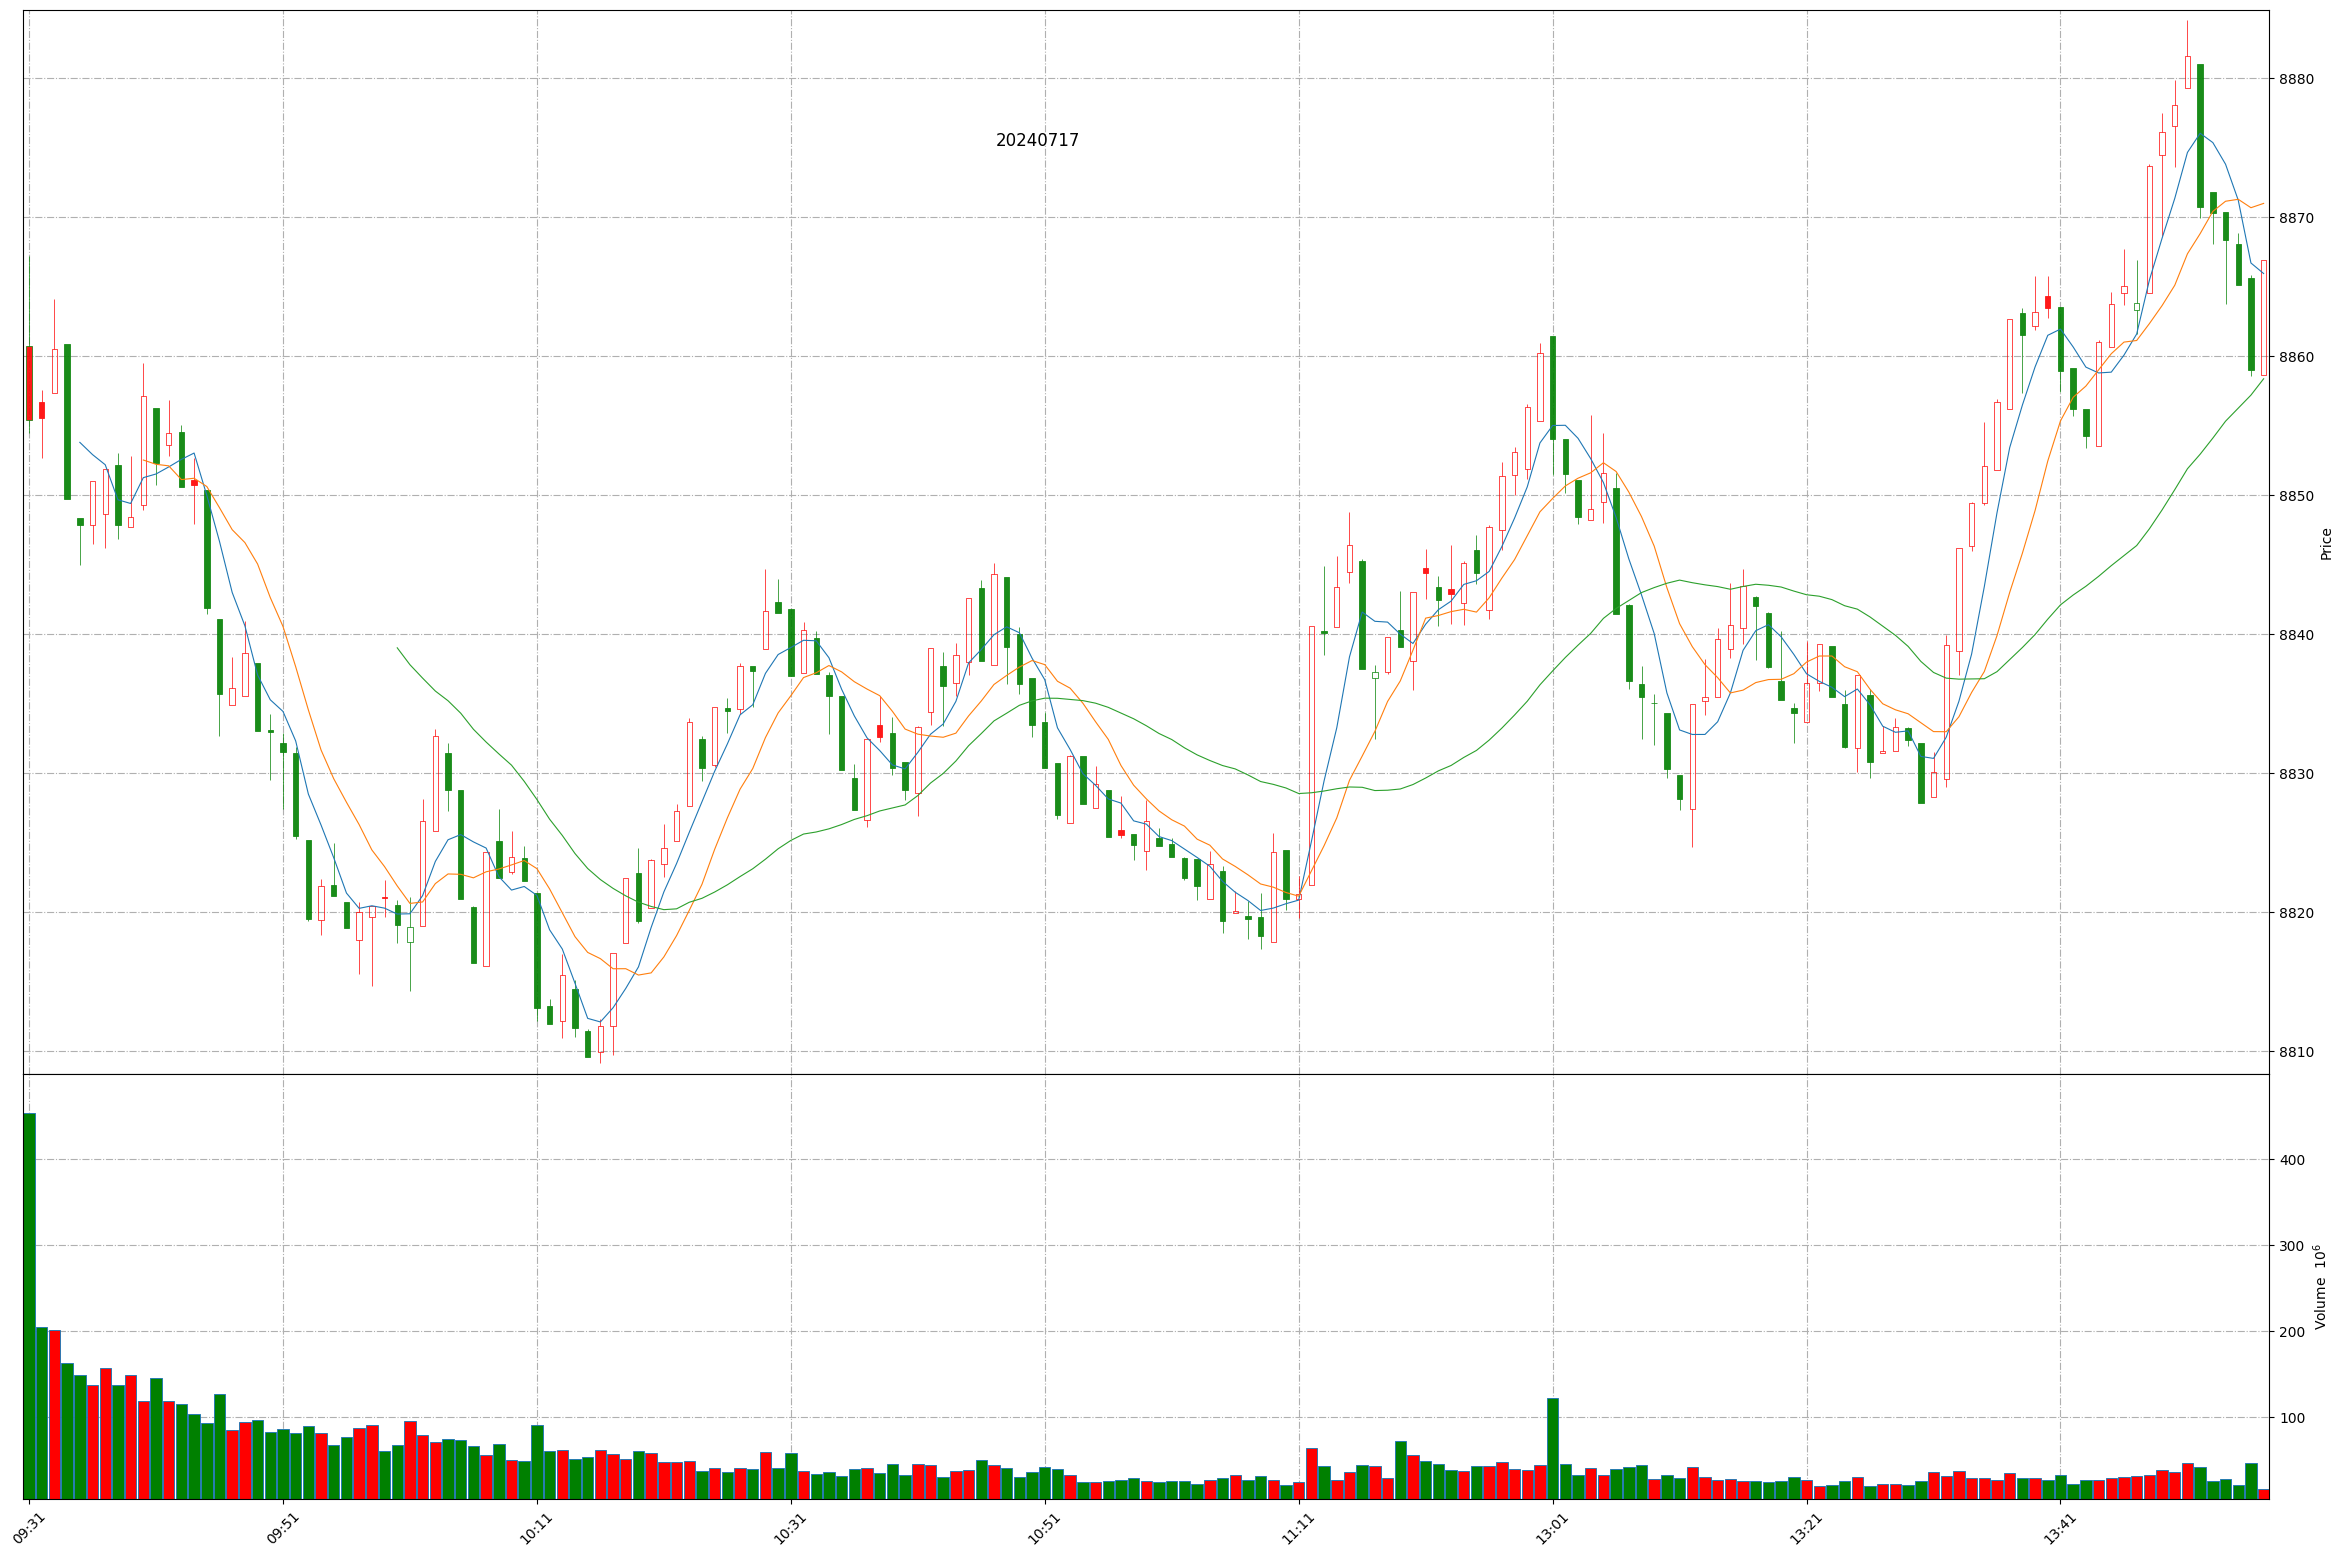
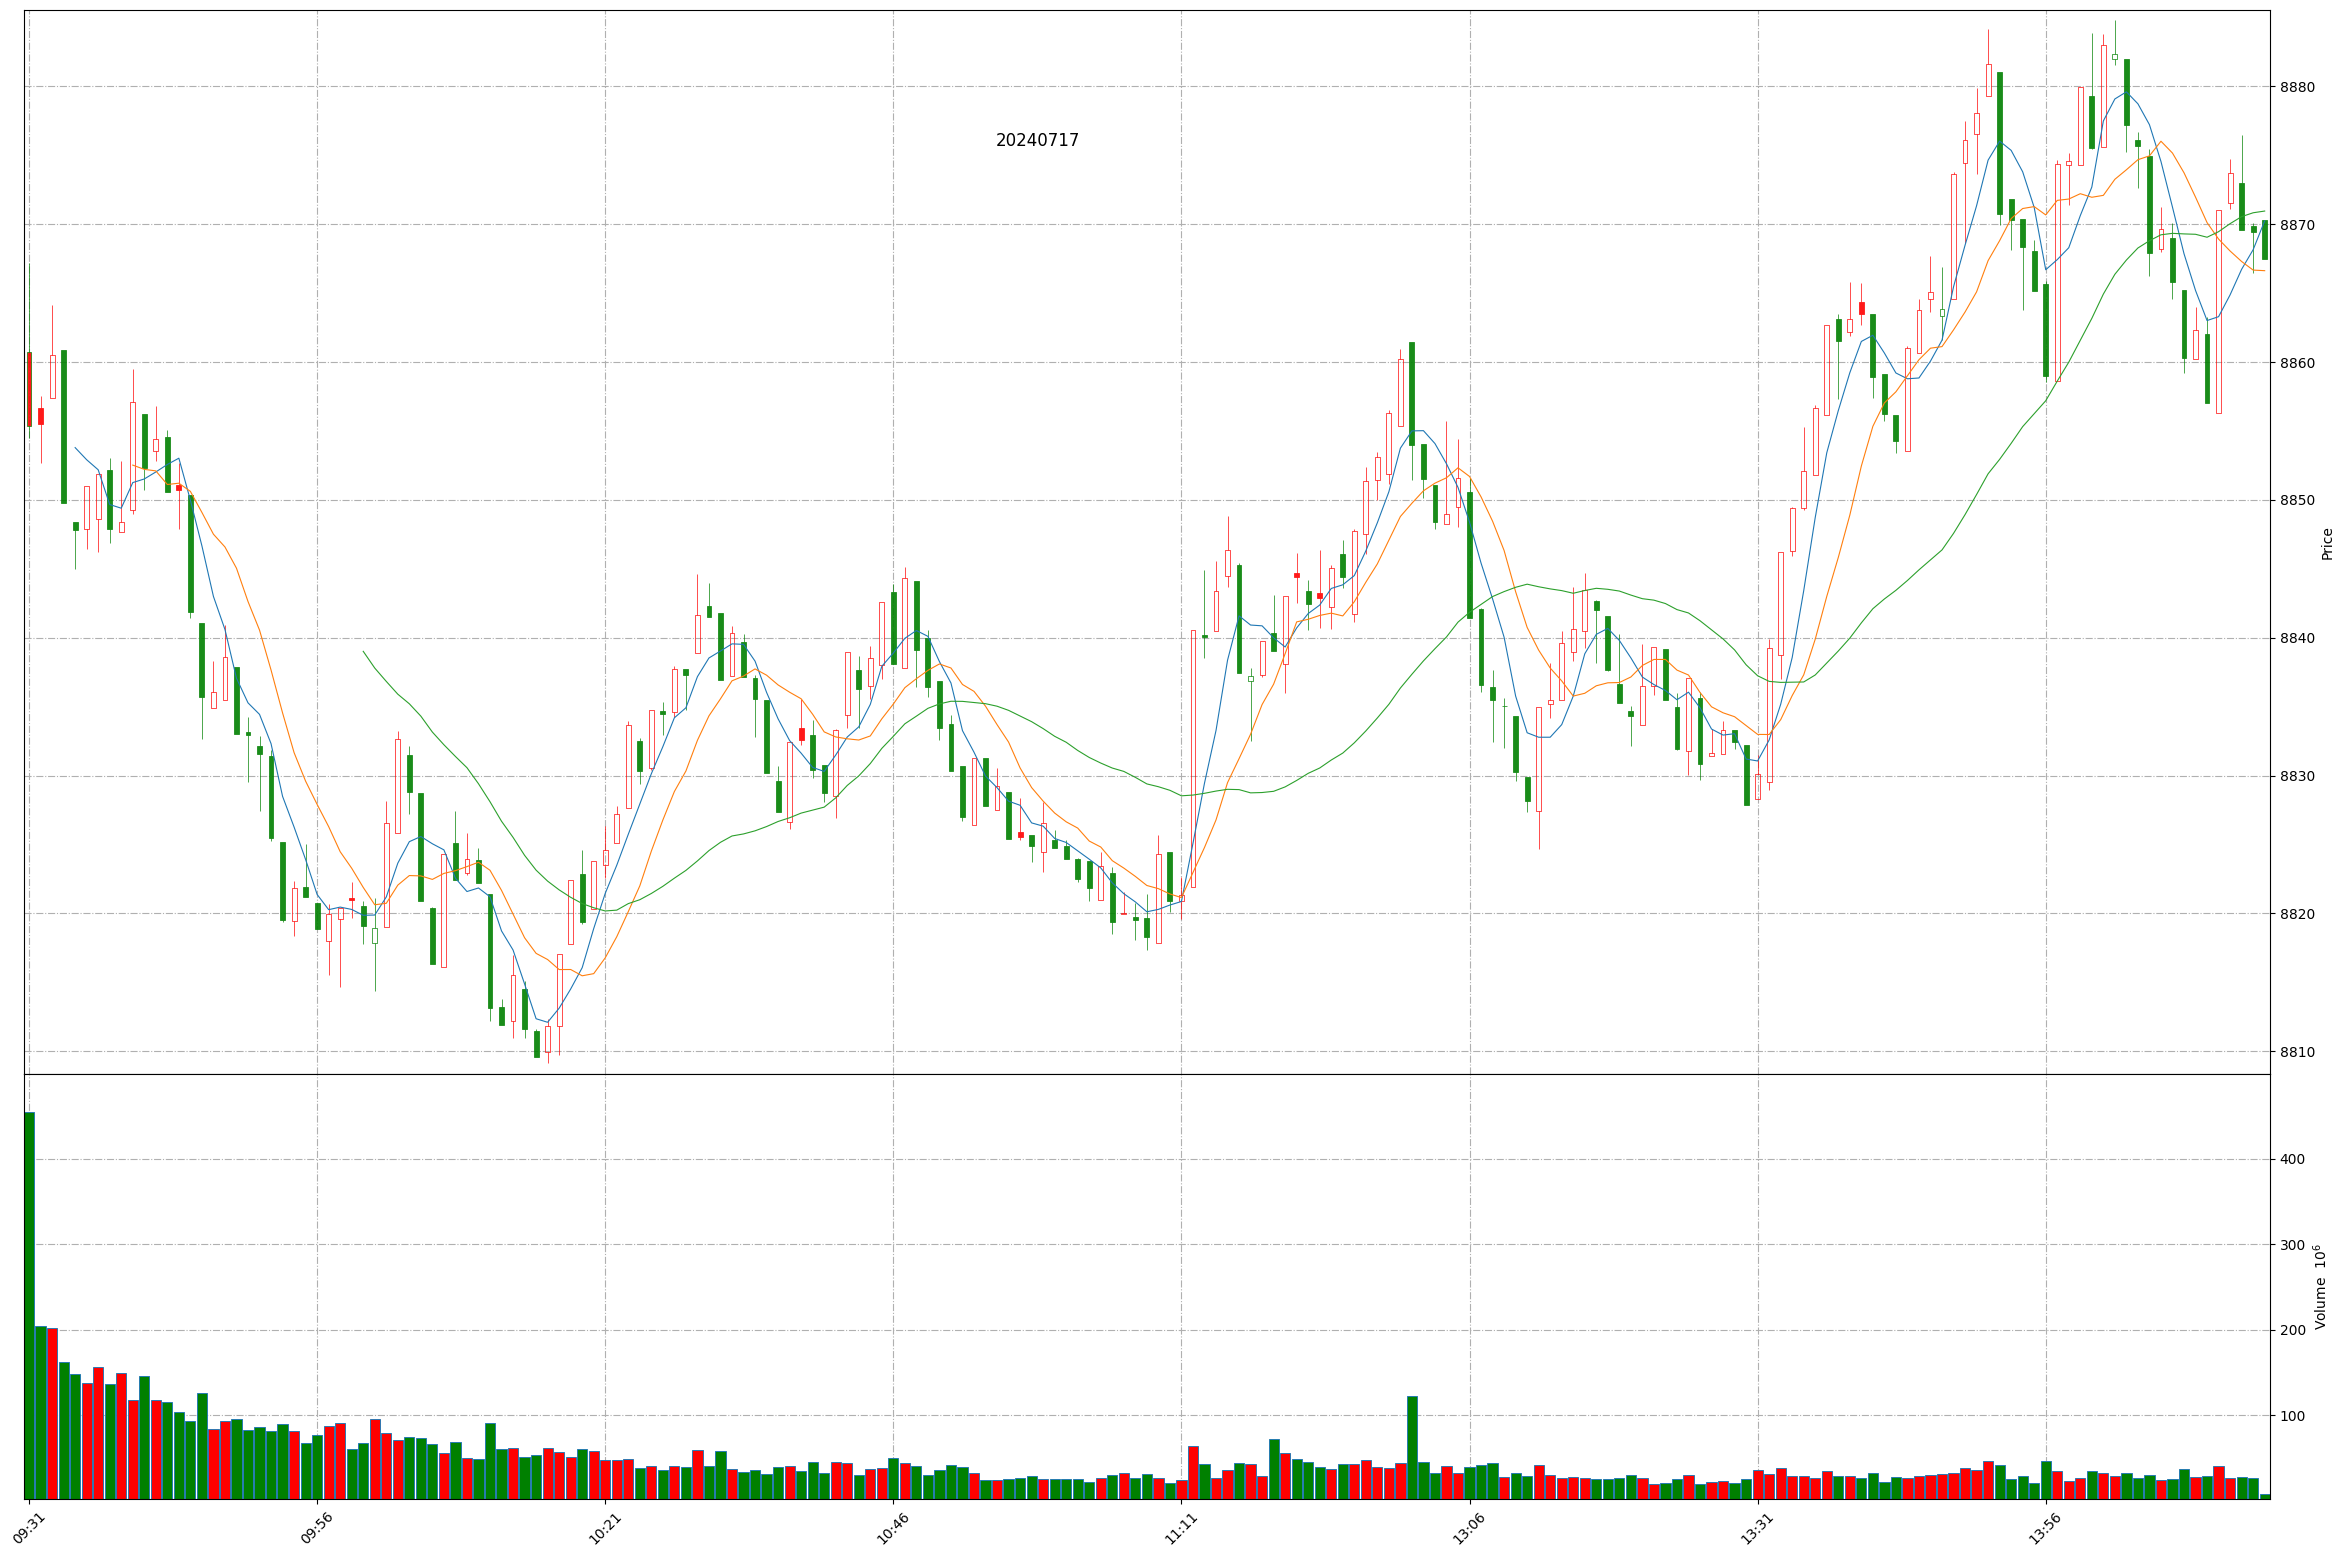
Github action update at 2024-07-17 14:14:33.

diff --git a/README.md b/README.md
@@ -1,11 +1,11 @@
 
 # Daily-A-share-market-quotes 每日 A 股指数（5min 更新）- 20240717
 
-### 上证指数 20240717 13:56
+### 上证指数 20240717 14:14
 ![](./fig/2024/7/20240717-sh000001.png)
 
-### 深证成指 20240717 13:56
+### 深证成指 20240717 14:14
 ![](./fig/2024/7/20240717-sz399001.png)
 
-### 北证50 20240717 13:56
+### 北证50 20240717 14:14
 ![](./fig/2024/7/20240717-bj899050.png)
